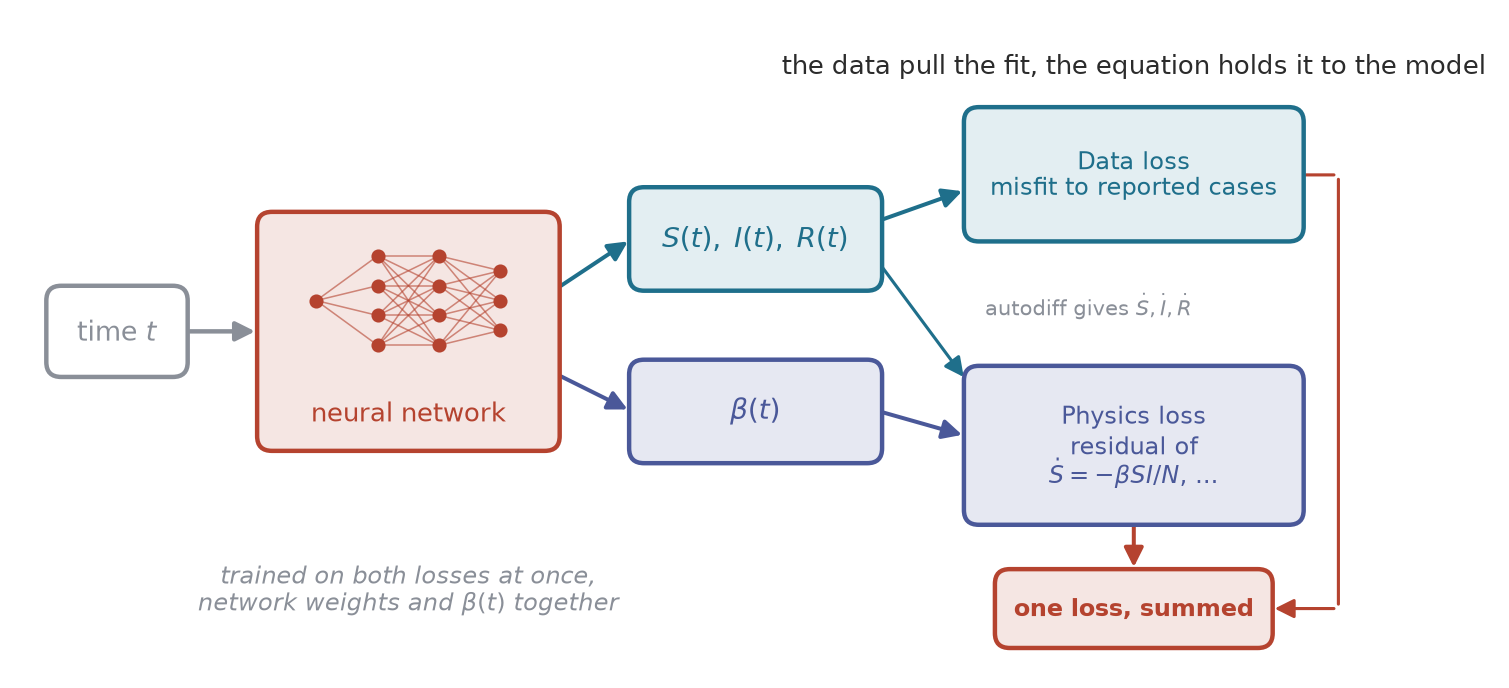
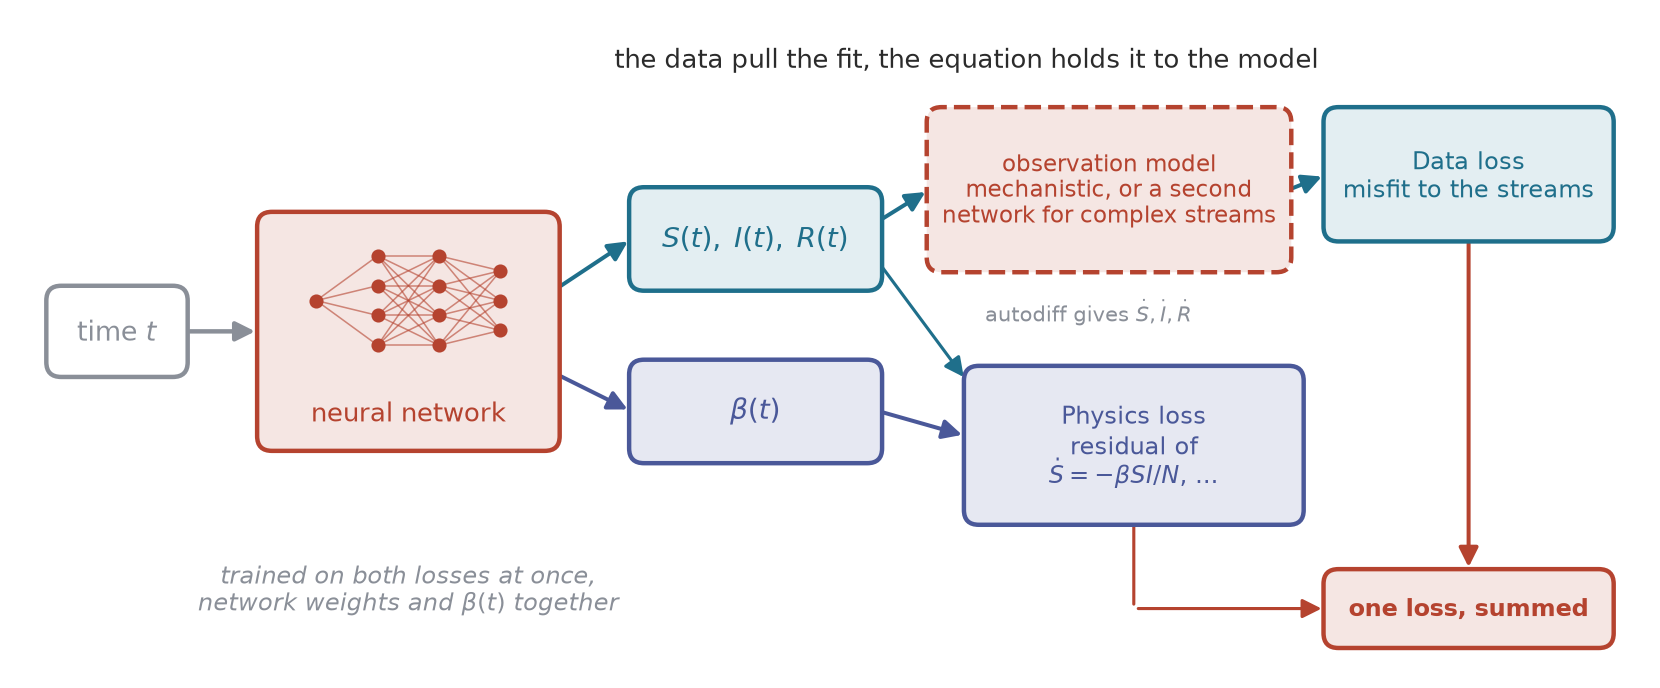
feat: the PINN schematic shows an observation model between state and data

Changed region(s): [[0.0, 0.1526, 0.9967, 0.9462], [0.3738, 0.061, 0.9967, 0.1221], [0.1246, 0.8241, 0.4049, 0.8852]]

diff --git a/scripts/keynote-schematics.py b/scripts/keynote-schematics.py
@@ -329,7 +329,7 @@ def renewal_layer():
 # 5b. A physics-informed neural network ------------------------------------
 
 def pinn():
-    fig, ax = canvas(11, 5.2)
+    fig, ax = canvas(13, 5.2)
     box(ax, 0.2, 2.35, 1.1, 0.7, "time $t$", colour=GREY, fs=12)
     arrow(ax, (1.3, 2.7), (1.9, 2.7), colour=GREY, lw=2)
     box(ax, 1.9, 1.75, 2.4, 1.9, "", colour=BRICK)
@@ -340,23 +340,27 @@ def pinn():
     box(ax, 4.9, 1.65, 2.0, 0.8, r"$\beta(t)$", colour=SLATE, fs=12.5)
     arrow(ax, (4.3, 3.05), (4.9, 3.45), colour=TEAL, lw=1.8)
     arrow(ax, (4.3, 2.35), (4.9, 2.05), colour=SLATE, lw=1.8)
+    # An observation model sits between the state and the data. It can be
+    # mechanistic, or a second network when the streams are complex.
+    box(ax, 7.3, 3.2, 2.9, 1.3, "observation model\nmechanistic, or a second\n"
+        "network for complex streams", colour=BRICK, fs=10.5, ls="--")
     # Two losses.
-    box(ax, 7.6, 3.45, 2.7, 1.05, "Data loss\nmisfit to reported cases",
+    box(ax, 10.5, 3.45, 2.3, 1.05, "Data loss\nmisfit to the streams",
         colour=TEAL, fs=11)
     box(ax, 7.6, 1.15, 2.7, 1.25, "Physics loss\nresidual of\n"
         r"$\dot S = -\beta S I / N$, ...", colour=SLATE, fs=11)
-    arrow(ax, (6.9, 3.6), (7.6, 3.85), colour=TEAL, lw=1.8)
+    arrow(ax, (6.9, 3.6), (7.3, 3.85), colour=TEAL, lw=1.8)
+    arrow(ax, (10.2, 3.85), (10.5, 3.97), colour=TEAL, lw=1.8)
     arrow(ax, (6.9, 3.25), (7.6, 2.3), colour=TEAL, lw=1.4)
     arrow(ax, (6.9, 2.05), (7.6, 1.85), colour=SLATE, lw=1.8)
-    label(ax, 7.75, 2.9, "autodiff gives $\\dot S, \\dot I, \\dot R$",
+    label(ax, 7.75, 2.85, "autodiff gives $\\dot S, \\dot I, \\dot R$",
           colour=GREY, fs=9.5, ha="left")
-    box(ax, 7.85, 0.15, 2.2, 0.6, "one loss, summed", colour=BRICK, fs=11,
+    box(ax, 10.5, 0.15, 2.3, 0.6, "one loss, summed", colour=BRICK, fs=11,
         weight="bold")
-    arrow(ax, (8.95, 1.15), (8.95, 0.75), colour=BRICK, lw=1.8)
-    arrow(ax, (10.3, 3.97), (10.6, 3.97), colour=BRICK, lw=1.4, style="-")
-    arrow(ax, (10.6, 3.97), (10.6, 0.45), colour=BRICK, lw=1.4, style="-")
-    arrow(ax, (10.6, 0.45), (10.05, 0.45), colour=BRICK, lw=1.4)
-    label(ax, 8.95, 4.85, "the data pull the fit, the equation holds it "
+    arrow(ax, (8.95, 1.15), (8.95, 0.45), colour=BRICK, lw=1.4, style="-")
+    arrow(ax, (8.95, 0.45), (10.5, 0.45), colour=BRICK, lw=1.4)
+    arrow(ax, (11.65, 3.45), (11.65, 0.75), colour=BRICK, lw=1.8)
+    label(ax, 7.6, 4.9, "the data pull the fit, the equation holds it "
           "to the model", colour=INK, fs=11.5)
     label(ax, 3.1, 0.6, "trained on both losses at once,\nnetwork weights "
           "and $\\beta(t)$ together", colour=GREY, fs=11, style="italic")
